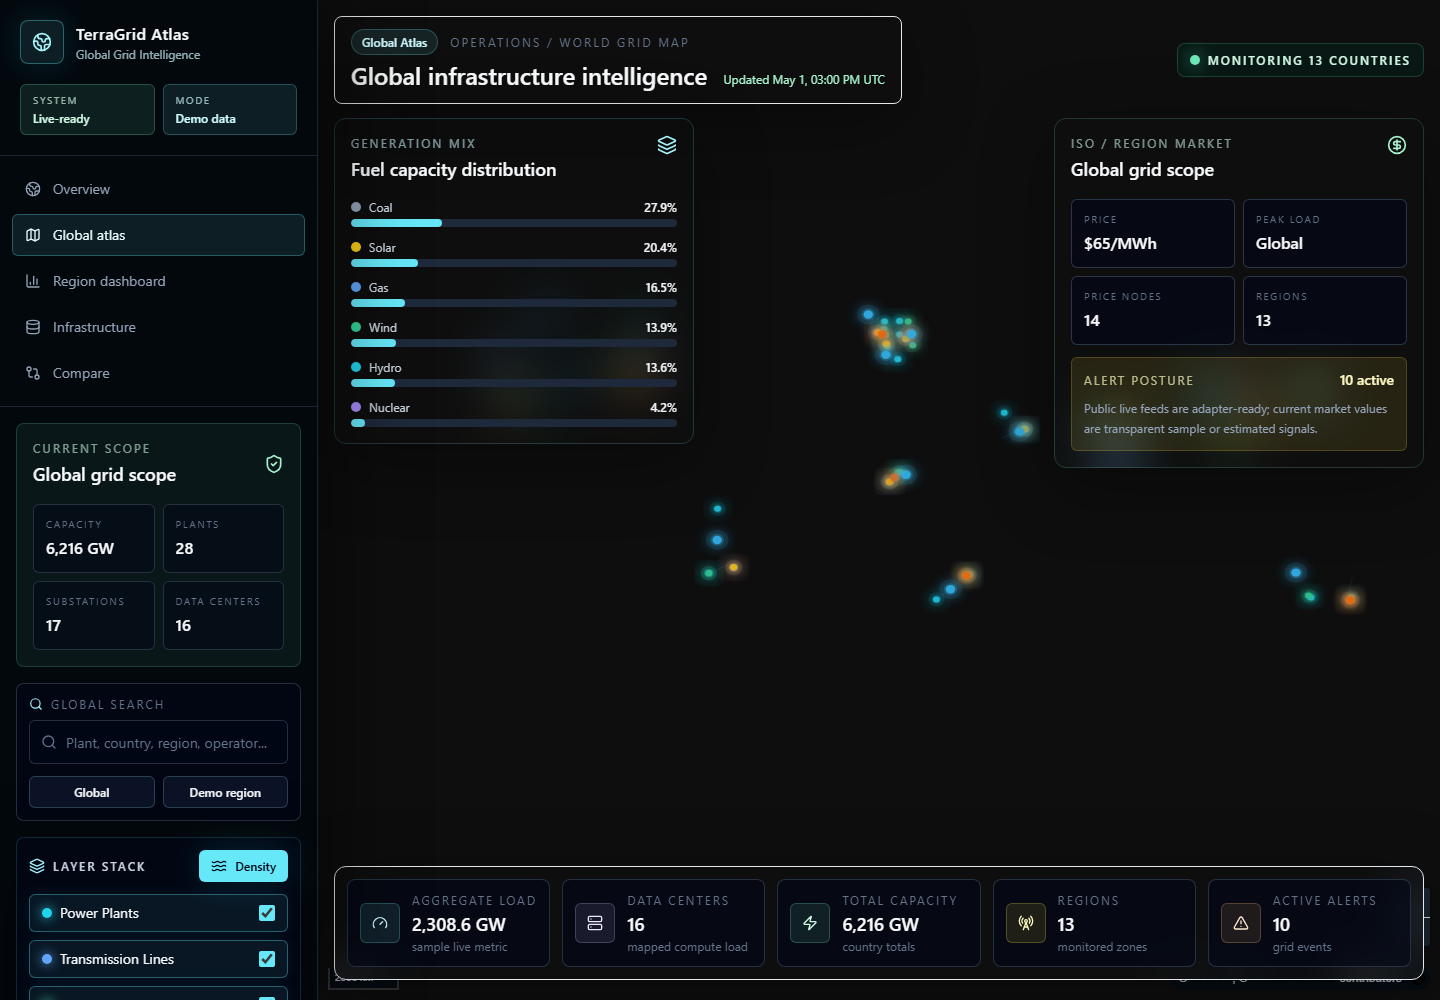
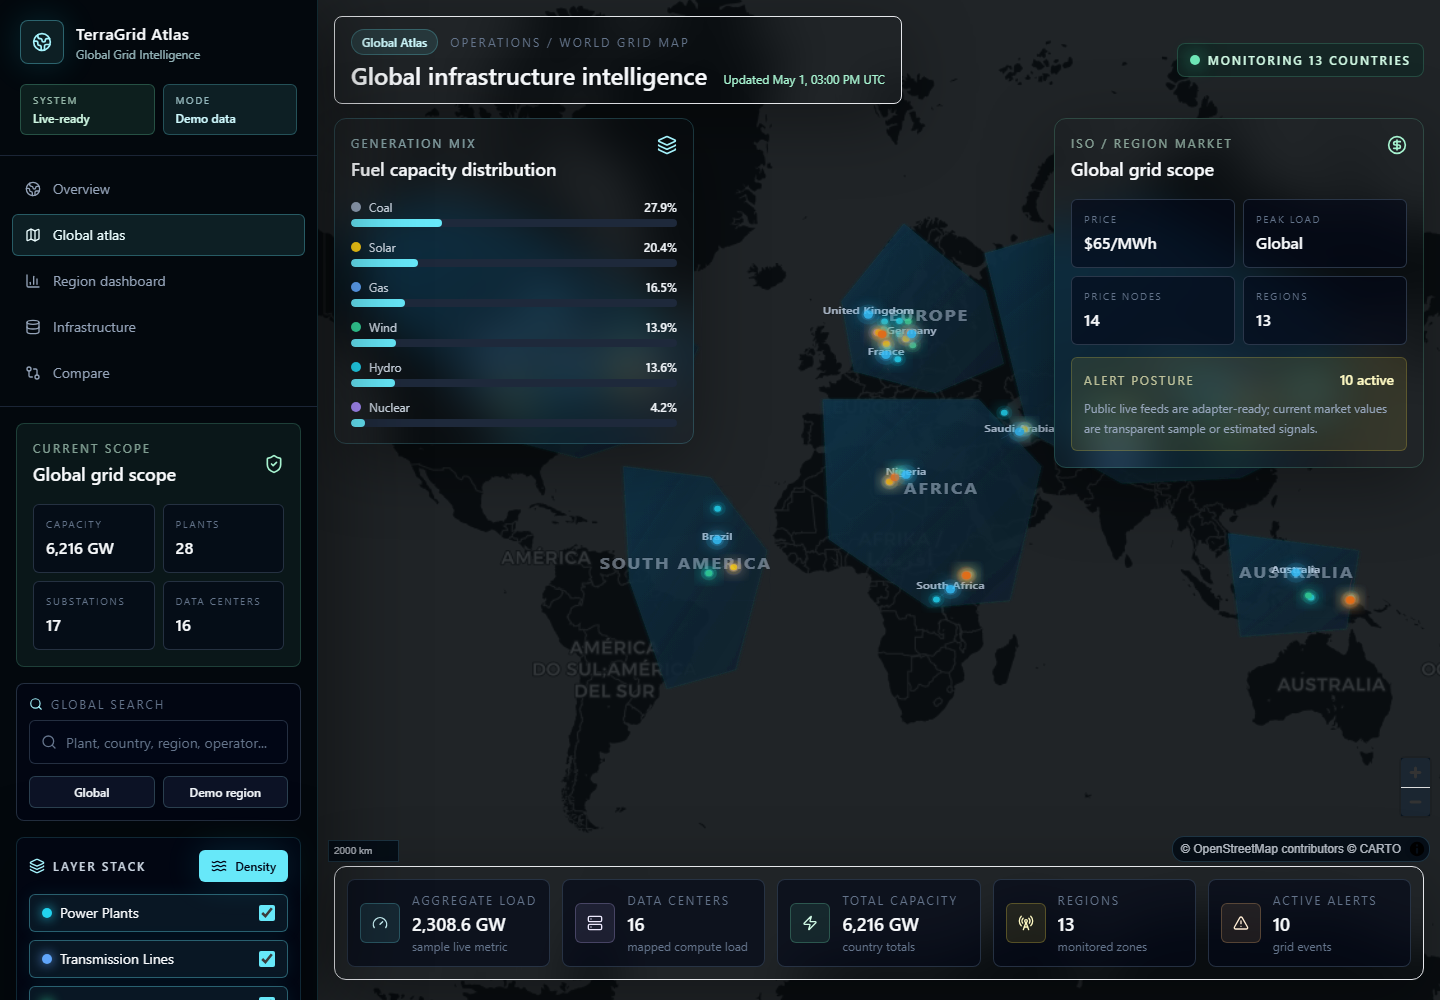
Improve atlas basemap visibility

diff --git a/components/map/world-map.tsx b/components/map/world-map.tsx
@@ -1,6 +1,11 @@
 "use client";
 
-import maplibregl, { type GeoJSONSource, type LngLatBoundsLike, type MapGeoJSONFeature } from "maplibre-gl";
+import maplibregl, {
+  type GeoJSONSource,
+  type LngLatBoundsLike,
+  type MapGeoJSONFeature,
+  type StyleSpecification
+} from "maplibre-gl";
 import { useEffect, useMemo, useRef, useState } from "react";
 import { Maximize2 } from "lucide-react";
 import {
@@ -31,7 +36,124 @@ type SelectedFeature = PointProperties & {
   latitude: number;
 };
 
-const mapStyle = "https://basemaps.cartocdn.com/gl/dark-matter-gl-style/style.json";
+const mapStyle: StyleSpecification = {
+  version: 8,
+  glyphs: "https://fonts.openmaptiles.org/{fontstack}/{range}.pbf",
+  sources: {
+    "carto-dark": {
+      type: "raster",
+      tiles: [
+        "https://a.basemaps.cartocdn.com/dark_all/{z}/{x}/{y}@2x.png",
+        "https://b.basemaps.cartocdn.com/dark_all/{z}/{x}/{y}@2x.png",
+        "https://c.basemaps.cartocdn.com/dark_all/{z}/{x}/{y}@2x.png",
+        "https://d.basemaps.cartocdn.com/dark_all/{z}/{x}/{y}@2x.png"
+      ],
+      tileSize: 256,
+      attribution: "&copy; OpenStreetMap contributors &copy; CARTO"
+    }
+  },
+  layers: [
+    {
+      id: "carto-dark-basemap",
+      type: "raster",
+      source: "carto-dark",
+      paint: {
+        "raster-opacity": 1,
+        "raster-brightness-min": 0.14,
+        "raster-brightness-max": 1,
+        "raster-contrast": 0.24,
+        "raster-saturation": -0.12
+      }
+    }
+  ]
+};
+
+const continentPolygons: Array<{ name: string; coordinates: [number, number][] }> = [
+  {
+    name: "North America",
+    coordinates: [
+      [-168, 70],
+      [-140, 73],
+      [-112, 70],
+      [-82, 62],
+      [-58, 48],
+      [-70, 24],
+      [-96, 15],
+      [-122, 22],
+      [-138, 42],
+      [-168, 58],
+      [-168, 70]
+    ]
+  },
+  {
+    name: "South America",
+    coordinates: [
+      [-82, 12],
+      [-54, 8],
+      [-36, -18],
+      [-46, -52],
+      [-68, -56],
+      [-80, -28],
+      [-82, 12]
+    ]
+  },
+  {
+    name: "Europe",
+    coordinates: [
+      [-12, 58],
+      [8, 70],
+      [34, 60],
+      [40, 44],
+      [18, 36],
+      [-8, 42],
+      [-12, 58]
+    ]
+  },
+  {
+    name: "Africa",
+    coordinates: [
+      [-18, 34],
+      [32, 34],
+      [52, 12],
+      [42, -34],
+      [16, -36],
+      [-16, -14],
+      [-18, 34]
+    ]
+  },
+  {
+    name: "Asia",
+    coordinates: [
+      [34, 66],
+      [86, 72],
+      [146, 58],
+      [154, 28],
+      [116, 8],
+      [78, 6],
+      [48, 24],
+      [34, 66]
+    ]
+  },
+  {
+    name: "Australia",
+    coordinates: [
+      [112, -12],
+      [154, -18],
+      [150, -42],
+      [116, -44],
+      [112, -12]
+    ]
+  }
+];
+
+const regionLabels: Array<{ label: string; coordinates: [number, number] }> = [
+  { label: "North America", coordinates: [-104, 47] },
+  { label: "South America", coordinates: [-62, -24] },
+  { label: "Europe", coordinates: [16, 54] },
+  { label: "Africa", coordinates: [20, 2] },
+  { label: "Asia", coordinates: [94, 42] },
+  { label: "Australia", coordinates: [134, -27] }
+];
 
 export function WorldMap({
   dataset,
@@ -105,7 +227,7 @@ export function WorldMap({
         source: "atlas-regions",
         paint: {
           "fill-color": "#0ea5e9",
-          "fill-opacity": ["case", ["boolean", ["feature-state", "hover"], false], 0.16, 0.065]
+          "fill-opacity": ["case", ["boolean", ["feature-state", "hover"], false], 0.11, 0.035]
         }
       });
 
@@ -115,7 +237,7 @@ export function WorldMap({
         source: "atlas-regions",
         paint: {
           "line-color": "#38bdf8",
-          "line-opacity": 0.42,
+          "line-opacity": 0.34,
           "line-width": 1.2
         }
       });
@@ -365,8 +487,15 @@ export function WorldMap({
   }, [dataset.countries, dataset.gridRegions, selectedCountryCode]);
 
   return (
-    <div className={compact ? "relative h-80 overflow-hidden rounded-lg bg-slate-950" : "relative h-full min-h-[620px] overflow-hidden rounded-none bg-slate-950"}>
+    <div
+      className={
+        compact
+          ? "relative h-80 overflow-hidden rounded-lg bg-[#07131d]"
+          : "terragrid-map-shell relative h-full min-h-[620px] overflow-hidden rounded-none bg-[#07131d]"
+      }
+    >
       <div ref={containerRef} className="absolute inset-0" />
+      {!compact ? <StaticWorldContextOverlay dataset={dataset} sources={sources} /> : null}
       {!compact ? <StaticAtlasOverlay sources={sources} /> : null}
       {!compact && showAttributionNote ? <div className="pointer-events-none absolute bottom-4 left-4 z-10 max-w-sm rounded-md border border-slate-700/70 bg-slate-950/74 px-3 py-2 text-xs text-slate-400 backdrop-blur">
         Basemap: CARTO dark matter. Infrastructure layers are sample or estimated records.
@@ -713,13 +842,116 @@ function popupHtml(properties: PointProperties) {
   `;
 }
 
+function StaticWorldContextOverlay({
+  dataset,
+  sources
+}: {
+  dataset: AtlasDataset;
+  sources: ReturnType<typeof buildMapSources>;
+}) {
+  return (
+    <svg className="pointer-events-none absolute inset-0 z-[1] h-full w-full" viewBox="0 0 100 100" preserveAspectRatio="none" aria-hidden="true">
+      <defs>
+        <linearGradient id="atlas-land-gradient" x1="0" x2="1" y1="0" y2="1">
+          <stop offset="0%" stopColor="#123348" stopOpacity="0.74" />
+          <stop offset="56%" stopColor="#0d2736" stopOpacity="0.66" />
+          <stop offset="100%" stopColor="#0b1e2c" stopOpacity="0.62" />
+        </linearGradient>
+        <filter id="atlas-land-glow" x="-10%" y="-10%" width="120%" height="120%">
+          <feGaussianBlur stdDeviation="0.18" result="blur" />
+          <feMerge>
+            <feMergeNode in="blur" />
+            <feMergeNode in="SourceGraphic" />
+          </feMerge>
+        </filter>
+      </defs>
+
+      <rect x="0" y="0" width="100" height="100" fill="#07131d" opacity="0.3" />
+      {continentPolygons.map((continent) => (
+        <polygon
+          key={continent.name}
+          points={continent.coordinates.map((coordinate) => projectToViewport(coordinate)).join(" ")}
+          fill="url(#atlas-land-gradient)"
+          filter="url(#atlas-land-glow)"
+          stroke="#5eead4"
+          strokeOpacity="0.22"
+          strokeWidth="0.18"
+          vectorEffect="non-scaling-stroke"
+        />
+      ))}
+
+      {sources.regions.features.map((feature) => {
+        const points = feature.geometry.coordinates[0]?.map((coordinate) => projectToViewport([coordinate[0] ?? 0, coordinate[1] ?? 0])).join(" ");
+        return points ? (
+          <polyline
+            key={String(feature.properties?.id)}
+            points={points}
+            fill="none"
+            stroke="#93c5fd"
+            strokeDasharray="0.6 0.42"
+            strokeOpacity="0.24"
+            strokeWidth="0.12"
+            vectorEffect="non-scaling-stroke"
+          />
+        ) : null;
+      })}
+
+      {regionLabels.map((region) => {
+        const [x, y] = projectToViewport(region.coordinates);
+        return (
+          <text
+            key={region.label}
+            x={x}
+            y={y}
+            fill="#dbeafe"
+            fontSize="1.6"
+            fontWeight="700"
+            letterSpacing="0.11em"
+            opacity="0.42"
+            paintOrder="stroke"
+            stroke="#03101a"
+            strokeWidth="0.42"
+            textAnchor="middle"
+            vectorEffect="non-scaling-stroke"
+          >
+            {region.label.toUpperCase()}
+          </text>
+        );
+      })}
+
+      {dataset.countries.map((country) => {
+        const [x, y] = projectToViewport(country.centroid);
+        return (
+          <text
+            key={country.iso2}
+            x={x}
+            y={y}
+            fill="#dbeafe"
+            fontSize="1.05"
+            fontWeight="600"
+            letterSpacing="0.02em"
+            opacity="0.72"
+            paintOrder="stroke"
+            stroke="#03101a"
+            strokeWidth="0.3"
+            textAnchor="middle"
+            vectorEffect="non-scaling-stroke"
+          >
+            {country.name}
+          </text>
+        );
+      })}
+    </svg>
+  );
+}
+
 function StaticAtlasOverlay({
   sources
 }: {
   sources: ReturnType<typeof buildMapSources>;
 }) {
   return (
-    <svg className="pointer-events-none absolute inset-0 z-[1] h-full w-full opacity-90" viewBox="0 0 100 100" preserveAspectRatio="none" aria-hidden="true">
+    <svg className="pointer-events-none absolute inset-0 z-[2] h-full w-full opacity-90" viewBox="0 0 100 100" preserveAspectRatio="none" aria-hidden="true">
       <defs>
         <filter id="atlas-glow" x="-40%" y="-40%" width="180%" height="180%">
           <feGaussianBlur stdDeviation="0.7" result="blur" />

diff --git a/app/globals.css b/app/globals.css
@@ -67,6 +67,23 @@ a {
   background-color: rgba(8, 20, 32, 0.92) !important;
 }
 
+.terragrid-map-shell .maplibregl-canvas {
+  background: #07131d;
+}
+
+.terragrid-map-shell .maplibregl-ctrl-bottom-left,
+.terragrid-map-shell .maplibregl-ctrl-bottom-right {
+  bottom: 128px;
+}
+
+.terragrid-map-shell .maplibregl-ctrl-attrib,
+.terragrid-map-shell .maplibregl-ctrl-scale {
+  border: 1px solid rgba(125, 211, 252, 0.2);
+  background: rgba(4, 12, 22, 0.86) !important;
+  color: rgba(226, 232, 240, 0.82) !important;
+  backdrop-filter: blur(12px);
+}
+
 .atlas-scrollbar {
   scrollbar-color: rgba(56, 189, 248, 0.45) rgba(15, 23, 42, 0.7);
   scrollbar-width: thin;